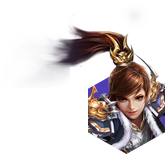
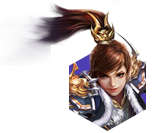
修改人物点击

diff --git a/css/main.css b/css/main.css
@@ -745,7 +745,7 @@ _top:expression(eval(document.documentElement.scrollTop));
 }
 .section2_info_wrap .tab_bar .tab {
 	float: left;
-	margin-right: 20px;
+	margin-right: 30px;
 	width: 77px;
 	height: 87px;
 	background: url(../images/zhiye/gan/gan_n.png);
@@ -808,10 +808,10 @@ _top:expression(eval(document.documentElement.scrollTop));
 	background-image: url(../images/zhiye/shen/shen_n.png)
 }
 .section2_info_wrap .tab_bar .tab.shen_tab span {
-	top: -66px;
-    left: -89px;
-    height: 154px;
-    width: 165px;
+	top: -44px;
+	left: -69px;
+	height: 133px;
+	width: 152px;
 	background-image: url(../images/zhiye/shen/shen_on.png)
 }
 .section2_info_wrap .tab_bar .tab.shen_tab:hover {
